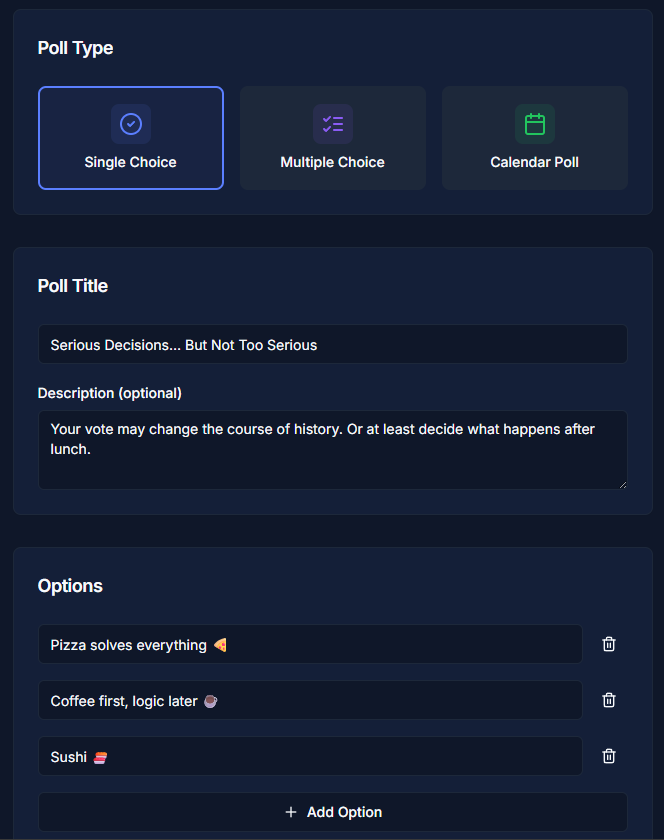
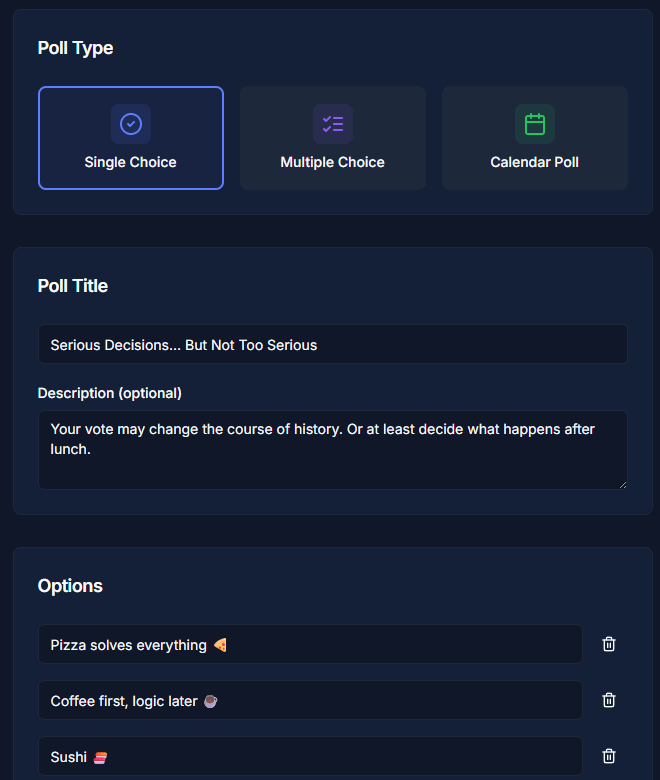
fix deploy

diff --git a/apps/web/app/polls/create/page.tsx b/apps/web/app/polls/create/page.tsx
@@ -336,7 +336,7 @@ export default function CreatePollPage() {
                       name="dateOptions"
                       render={({ field }) => (
                         <PollDatePicker
-                          value={field.value || []}
+                          value={(field.value || []).filter((opt): opt is { date: string; startTime?: string; endTime?: string } => !!opt.date)}
                           onChange={field.onChange}
                           minDates={2}
                         />